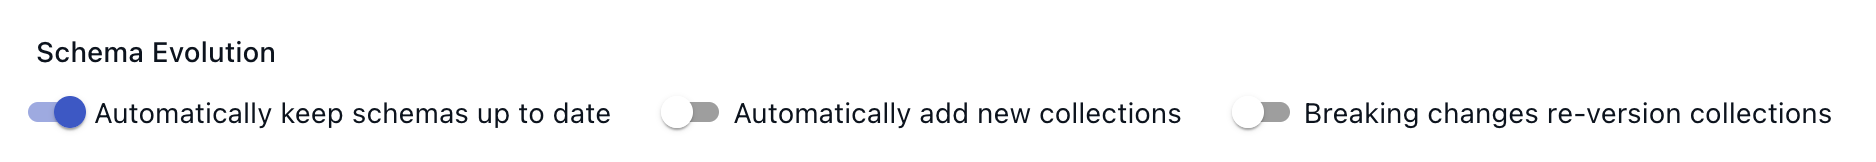
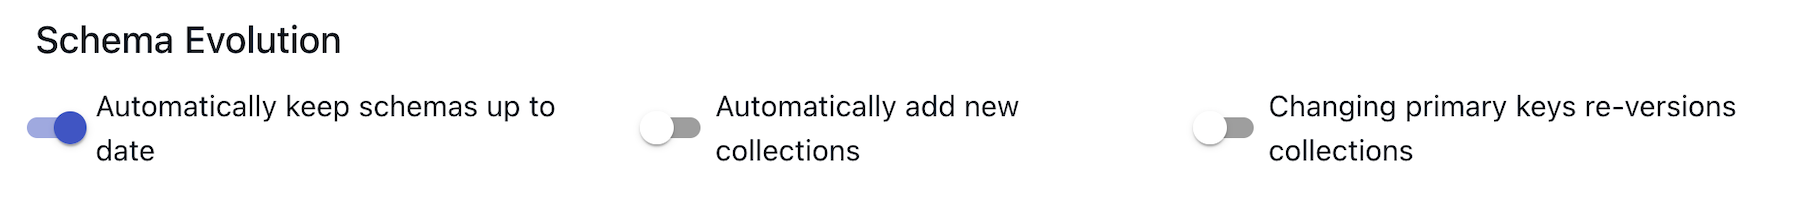
refresh schema evolution docs

Changed region(s): [[0.0, 0.463, 0.9956, 0.8025], [0.0, 0.1235, 0.1867, 0.4012], [0.3733, 0.4938, 0.5911, 0.5864]]

diff --git a/site/docs/guides/schema-evolution.md b/site/docs/guides/schema-evolution.md
@@ -1,71 +1,92 @@
 # Schema Evolution
 
-When collection specifications and schemas change, you must make corresponding changes in other parts of your Data Flow to avoid errors. In this guide, you'll learn how to respond to different types of collection changes.
+When schemas change, Estuary's default behavior is to automatically evolve their specifications to avoid errors.
+This guide covers what to expect when using automatic schema evolution, and how to handle schema changes if automatic evolution is turned off.
 
-Manual methods (using flowctl) as well as features available in the Estuary web app are covered here.
-For an in-depth overview of the automatic schema evolution feature in the web app and how it works, see [this article](../concepts/advanced/evolutions.md).
+For a conceptual overview of schema evolution, see [the schema evolution concepts page](/concepts/advanced/evolutions).
 
 ## Introduction
 
-Estuary [collections](../concepts/collections.md) serve not only as your real-time data storage, but also as a contract between tasks that produce and consume their data. **Captures** are producers, **materializations** are consumers, and **derivations** can act as either.
+Estuary [collections](/concepts/collections) serve not only as your real-time data storage, but also as a contract between tasks that produce and consume their data. **Captures** are producers, **materializations** are consumers, and **derivations** can act as either.
 
-This contract helps prevent data loss and error in your Data Flows, and is defined in terms of the collection specification, or spec, which includes:
+This contract helps prevent data loss and error in your data flows, and is defined in terms of the collection specification, or spec, which includes:
 
 * The JSON schema
 * The collection `key`
-* [Projections](../concepts/advanced/projections.md), if any
+* [Projections](/concepts/advanced/projections), if any
 
-There are many reasons a collection spec might change. Often, it's due to a change in the source data. Regardless, you'll need to make changes to downstream tasks — most often, materializations — to avoid errors.
+There are many reasons a collection spec might change. Often, it's due to a change in the source data.
+Estuary will automatically infer schema changes. You can then control whether your pipeline automatically handles evolution tasks with:
+* `autoDiscover` capture settings
+* `onIncompatibleSchemaChange` materialization settings
+
+## Automatic schema evolution
+
+Estuary's default behavior is to automatically discover changes and evolve schemas.
+This is especially useful for data you expect to change shape frequently, or for data that includes outliers which initial schema inference may not capture.
+
+You can set your desired [auto-discover](/concepts/captures/#automatically-update-captures) behavior from the capture.
+
+This comprises several related functions:
+* Automatically keep schemas up to date
+* Automatically add new collections
+* Changing primary keys resets collections
+
+Estuary accounts for incompatible schema changes (such as changes to a column's data type) by _widening_ the schema.
+
+:::info
+Automatic schema evolution will only ever widen data types.
+To narrow a column's data type instead, use a [dataflow reset](/reference/backfilling-data/#dataflow-reset) to reset inferred schemas and backfill data.
+:::
+
+## Manually changing schemas
+
+If you do not opt to automatically evolve schemas, you can still manually update specifications as necessary.
+This can be useful when you want tight type checking and want to be alerted when data does not conform to the existing schema.
+
+For manual updates, ensure all [auto-discover](/concepts/captures/#automatically-update-captures) options are toggled off in the capture or remove the `autoDiscover` stanza from the specification file.
+
+You can then choose how your materialization should behave when encountering an incompatible schema change, such as setting `onIncompatibleSchemaChange` to `abort` or `disableBinding` to wait for manual review.
+
+Either fix malformed data in the source or manually update the specification to accept the irregular document.
+
+To manually edit collection specifications, see guides on [using `flowctl`](/guides/flowctl/edit-specification-locally) and the [collection concept docs](/concepts/collections).
 
 ## Schema evolution scenarios
 
-This guide is broken down into sections for different common scenarios, depending on which properties of the collection spec have changed.
+Collection specifications can change for many reasons. Common changes requiring evolution can include:
 
-- [The `key` pointers have changed](#re-creating-a-collection)
-- [The logical partitioning configuration has changed](#re-creating-a-collection)
+- [The `key` pointers have changed](#collection-key-changes)
+- [The logical partitioning configuration has changed](#logical-partition-changes)
 - The `schema` (or `readSchema` if defined separately) has changed
     - [A new field is added](#a-new-field-is-added)
     - [A field's data type has changed](#a-fields-data-type-has-changed)
     - [A field was removed](#a-field-was-removed)
 
-:::info
-There are a variety of reasons why these properties may change, and also different mechanisms for detecting changes in source data. In general, it doesn't matter why the collection spec has changed, only _what_ has changed. However, [AutoDiscovers](../concepts/captures.md#automatically-update-captures) are able to handle some of these scenarios automatically. Where applicable, AutoDiscover behavior will be called out under each section.
-:::
+There are a variety of reasons why these properties may change, and also different mechanisms for detecting changes in source data. In general, it doesn't matter why the collection spec has changed, only _what_ has changed.
 
-### Re-creating a collection
+The sections below provide additional details on these scenarios.
 
-*Scenario: the `key` pointer or logical partitioning configurations have changed.*
+### Collection key changes
 
-The `key` of an Estuary collection cannot be changed after the collection is created. The same is true of the logical partitioning, which also cannot be changed after the collection is created.
+*Scenario: the collection `key` pointer has changed.*
 
-If you need to change either of those parts of a collection spec, you'll need to create a new collection and update the bindings of any captures or materializations that reference the old collection.
+Schema evolution, whether automatic or manual, can update a collection's key.
 
-**Web app workflow**
+Note that materializations can specify separate [group-by keys](/guides/customize-materialization-fields/#group-by-keys) from the collection key structure.
+Ensure the materialization group-by key is updated if you wish to propogate key changes downstream.
 
-If you're working in the Estuary web app, you'll see an error message and an option to re-create the collection as shown in the example below.
+### Logical partition changes
 
-![](./guide-images/evolution-re-create-ui.png)
+*Scenario: the logical partitioning configuration has changed.*
 
-Click **Apply** to re-create the collection and update any tasks that reference the old collection with the new name.
+Changes to a collection's [logical partitioning](/concepts/advanced/projections/#logical-partitions) require a [dataflow reset](/reference/backfilling-data/#dataflow-reset) to reset the collection.
 
-**flowctl workflow:**
+If you need to change logical partitions, you can control the partition projections and reset from the collection specification file.
 
-If you're working with flowctl, you'll need to re-create the collection manually in your `flow.yaml` file. You must also update any captures or materializations that reference it. For example, say you have a data flow defined by the following specs:
+For example, your `flow.yaml` file might look like:
 
 ```yaml
-captures:
-  acmeCo/inventory/source-postgres:
-    endpoint:
-      connector:
-        image: ghcr.io/estuary/source-postgres:v1
-        config: encrypted-pg-config.sops.yaml
-    bindings:
-      - resource:
-          namespace: public
-          stream: anvils
-          mode: Normal
-        target: acmeCo/inventory/anvils
-
 collections:
   acmeCo/inventory/anvils:
     key: [/sku]
@@ -76,69 +97,14 @@ collections:
         warehouse_id: { type: string }
         quantity: { type: integer }
       required: [sku, warehouse_id, quantity]
-
-materializations:
-  acmeCo/data-warehouse/materialize-snowflake:
-    endpoint:
-      connector:
-        image: ghcr.io/estuary/materialize-snowflake:v1
-        config: encrypted-snowflake-config.sops.yaml
-    bindings:
-      - source: acmeCo/inventory/anvils
-        resource:
-          table: anvils
-          schema: inventory
+    projections:
+      warehouse_id:
+        location: /warehouse_id
+        partition: true
+    reset: true
 ```
 
-To change the collection key, you would update the YAML like so. Note the capture `target`, collection name, and materialization `source`.
-
-```yaml
-captures:
-  acmeCo/inventory/source-postgres:
-    endpoint:
-      connector:
-        image: ghcr.io/estuary/source-postgres:v1
-        config: encrypted-pg-config.sops.yaml
-    bindings:
-      - resource:
-          namespace: public
-          stream: anvils
-          mode: Normal
-        backfill: 1
-        target: acmeCo/inventory/anvils_v2
-
-collections:
-  acmeCo/inventory/anvils_v2:
-    key: [/sku]
-    schema:
-      type: object
-      properties:
-        sku: { type: string }
-        warehouse_id: { type: string }
-        quantity: { type: integer }
-      required: [sku, warehouse_id, quantity]
-
-materializations:
-  acmeCo/data-warehouse/materialize-snowflake:
-    endpoint:
-      connector:
-        image: ghcr.io/estuary/materialize-snowflake:v1
-        config: encrypted-snowflake-config.sops.yaml
-    bindings:
-      - source: acmeCo/inventory/anvils_v2
-        backfill: 1
-        resource:
-          table: anvils
-          schema: inventory
-```
-
-The existing `acmeCo/inventory/anvils` collection will not be modified and will remain in place, but won't update because no captures are writing to it.
-
- Also note the addition of the `backfill` property. If the `backfill` property already exists, just increment its value. For the materialization, this will ensure that the destination table in Snowflake gets dropped and re-created, and that the materialization will backfill it from the beginning. In the capture, it similarly causes it to start over from the beginning, writing the captured data into the new collection.
-
-**Auto-Discovers:**
-
-If you enabled the option to [**Automatically keep schemas up to date** (`autoDiscover`)](../concepts/captures.md#automatically-update-captures) and selected **Breaking change re-versions collections** (`evolveIncompatibleCollections`) for the capture, this evolution would be performed automatically.
+The dataflow reset will automatically update associated capture and materialization bindings and kick off a backfill.
 
 ### A new field is added
 
@@ -152,7 +118,7 @@ If your materialization binding is set to `recommended: false`, or if the new fi
 
 To manually add a field:
 
-* **In the web app,** [edit the materialization](/guides/edit-data-flows/#edit-a-materialization), find the affected binding, and click **Show Fields**.
+* **In the dashboard,** edit the materialization, find the affected binding, and require desired fields with [field selection](/guides/customize-materialization-fields/#field-selection-for-materializations).
 * **Using flowctl,** add the field to `fields.include` in the materialization specification as shown [here](/concepts/materialization/#projected-fields).
 
 :::info
@@ -243,11 +209,11 @@ materializations:
 
 Note that the only change was to increment the `backfill` counter. If the previous binding spec did not specify `backfill`, then just add `backfill: 1`.
 
-This works because the type is broadened, so existing values will still validate against the new schema. If this were not the case, then you'd likely need to [re-create the whole collection](#re-creating-a-collection).
+This works because the type is broadened, so existing values will still validate against the new schema. If this were not the case, then you'd likely need to perform a [dataflow reset](/reference/backfilling-data/#dataflow-reset).
 
 **Auto-Discovers:**
 
-If you enabled the option to [**Automatically keep schemas up to date** (`autoDiscover`)](../concepts/captures.md#automatically-update-captures) and selected **Breaking change re-versions collections** (`evolveIncompatibleCollections`) for the capture, this evolution would be performed automatically.
+If you enabled the option to [**Automatically keep schemas up to date** (`autoDiscover`)](../concepts/captures.md#automatically-update-captures), this evolution would be performed automatically.
 
 ### A field was removed
 

diff --git a/site/docs/concepts/advanced/evolutions.md b/site/docs/concepts/advanced/evolutions.md
@@ -9,7 +9,7 @@ Before continuing, you should have a basic understanding of Estuary's [captures]
 
 ## Introduction
 
-Estuary stores your real-times datasets as **collections**, groups of continually updating JSON documents.
+Estuary stores your real-time datasets as **collections**, groups of continually updating JSON documents.
 **Captures** write data to collections, and **materializations** read data from collections.
 Together, these three components form a complete Data Flow.
 
@@ -32,10 +32,11 @@ Each collection and its data are defined by a **collection specification**, or s
 The spec serves as a formal contract between the capture and the materialization, ensuring that data is correctly shaped and moves through the Data Flow without error.
 
 The spec includes the collection's `key`, its `schema`, and [logical partitions](./projections.md#logical-partitions) of the collection, if any.
+Any of these parts may change:
 
-When any of these parts change, any capture or materialization writing to or reading from the collection must be updated to approve of the change, otherwise, the Data Flow will fail with an error.
-
-You can use Estuary's **schema evolutions** feature to quickly and simultaneously update other parts of a Data Flow so you're able to re-start it without error when you introduce a collection change.
+* When a collection **key** changes, you can separately manage materialization [group-by keys](/guides/customize-materialization-fields/#group-by-keys) during field selection.
+* Estuary's **schema evolution** feature automatically picks up new fields and widens data types.
+* Changes to **logical partitions** will require a corresponding [dataflow reset](/reference/backfilling-data/#dataflow-reset) to reset the collection schema.
 
 Collection specs may change for a variety of reasons, such as:
 
@@ -44,16 +45,6 @@ Collection specs may change for a variety of reasons, such as:
 - Someone manually changed the collection's logical partitions.
 
 Regardless of why or how a spec change is introduced, the effect is the same. Estuary will never permit you to publish changes that break this contract between captures and materializations, so you'll need to update the contract.
-
-## Using evolutions
-
-When you attempt to publish a breaking change to a collection in the Estuary web app, you get an error message that looks similar to this one:
-
-![](<./evolutions-images/ui-evolution-re-create.png>)
-
-Click the **Apply** button to trigger an evolution and update all necessary specification to keep your Data Flow functioning. Then, review and publish your draft.
-
-If you enabled [AutoDiscover](../captures.md#automatically-update-captures) on a capture, any breaking changes that it introduces will trigger an automatic schema evolution, so long as you selected the **Breaking change re-versions collections** option (`evolveIncompatibleCollections`).
 
 ## What do schema evolutions do?
 
@@ -71,7 +62,7 @@ Evolutions can prevent errors resulting from mismatched specs in two ways:
 
    This is a simpler change, and how evolutions work in most cases.
 
-* **Re-create the collection with a new name**: The evolution creates a completely new collection with numerical suffix, such as `_v2`. This collection starts out empty and backfills from the source. The evolution also updates all captures and materializations that reference the old collection to instead reference the new collection, and increments their `backfill` counters.
+* **Reset the collection**: The evolution uses a [dataflow reset](/reference/backfilling-data/#dataflow-reset) to reset the collection. The re-created collection starts out empty and backfills from the source. The reset also updates all captures and materializations that reference the collection to increment their `backfill` counters.
 
    This is a more complicated change, and evolutions only work this way when necessary: when the collection key or logical partitioning changes.
 
@@ -84,33 +75,11 @@ This field can be set at the top level of a materialization spec or within each 
 If not specified at the binding level, the top-level setting applies by default.
 The `onIncompatibleSchemaChange` field offers four options:
 
-- backfill (default if unspecified): Increments the backfill counter for affected bindings, refreshing the destination resources (truncating, or dropping and recreating when the schema change requires it) and backfilling them.
-- disableBinding: Disables the affected bindings, requiring manual intervention to re-enable and resolve the incompatible fields.
-- disableTask: Disables the entire materialization, necessitating human action to re-enable and address the incompatible fields.
-- abort: Halts any automated action, leaving the resolution decision to a human.
+- `backfill` (default if unspecified): Increments the backfill counter for affected bindings, refreshing the destination resources (truncating, or dropping and recreating when the schema change requires it) and backfilling them.
+- `disableBinding`: Disables the affected bindings, requiring manual intervention to re-enable and resolve the incompatible fields.
+- `disableTask`: Disables the entire materialization, necessitating human action to re-enable and address the incompatible fields.
+- `abort`: Halts any automated action, leaving the resolution decision to a human.
 
 These behaviors are triggered only when an automated action detects an incompatible schema change.
 Manual changes via the UI will ignore `onIncompatibleSchemaChange`.
 This feature can be configured using `flowctl` or the "Advanced specification editor".
-
-## What causes breaking schema changes?
-
-Though changes to the collection `key` or logical partition can happen, the most common cause of a breaking change is a change to the collection schema.
-
-Generally materializations, not captures, require updates following breaking schema changes. This is because the new collection specs are usually discovered from the source, so the capture is edited at the same time as the collection.
-
-Consider a collection schema that looks like this:
-
-```yaml
-schema:
-  type: object
-  properties:
-    id: { type: integer }
-    foo: { type: string, format: date-time }
-  required: [id]
-key: [/id]
-```
-
-If you materialized that collection into a relational database table, the table would look something like `my_table (id integer primary key, foo timestamptz)`.
-
-Now, say you edit the collection spec to remove `format: date-time` from `foo`. You'd expect the materialized database table to then look like `(id integer primary key, foo text)`. But since the column type of `foo` has changed, this will fail. An easy solution in this case would be to change the name of the table that the collection is materialized into. Evolutions do this by appending a suffix to the original table name. In this case, you'd end up with `my_table_v2 (id integer primary key, foo text)`.

diff --git a/site/docs/concepts/materialization/materialization.md b/site/docs/concepts/materialization/materialization.md
@@ -107,6 +107,11 @@ materializations:
     # they will automatically be added to the materialization. This property
     # is optional.
     sourceCapture: acmeCo/example/a-capture
+
+    # Specify an action to take when a schema change is rejected due to
+    # incompatibility. This property is optional. If not provided, the
+    # materialization defaults to backfilling bindings.
+    onIncompatibleSchemaChange: backfill
 ```
 
 ## How continuous materialization works

diff --git a/site/docs/concepts/captures.md b/site/docs/concepts/captures.md
@@ -89,7 +89,7 @@ The toggles in the web app correspond directly to the properties above:
 
 - "Automatically keep schemas up to date" enables `autoDiscover`
 - "Automatically add new collections" corresponds to `addNewBindings`
-- "Breaking changes re-versions collections" corresponds to `evolveIncompatibleCollections`
+- "Changing primary keys re-versions collections" corresponds to `evolveIncompatibleCollections`
 
 ## Specification
 